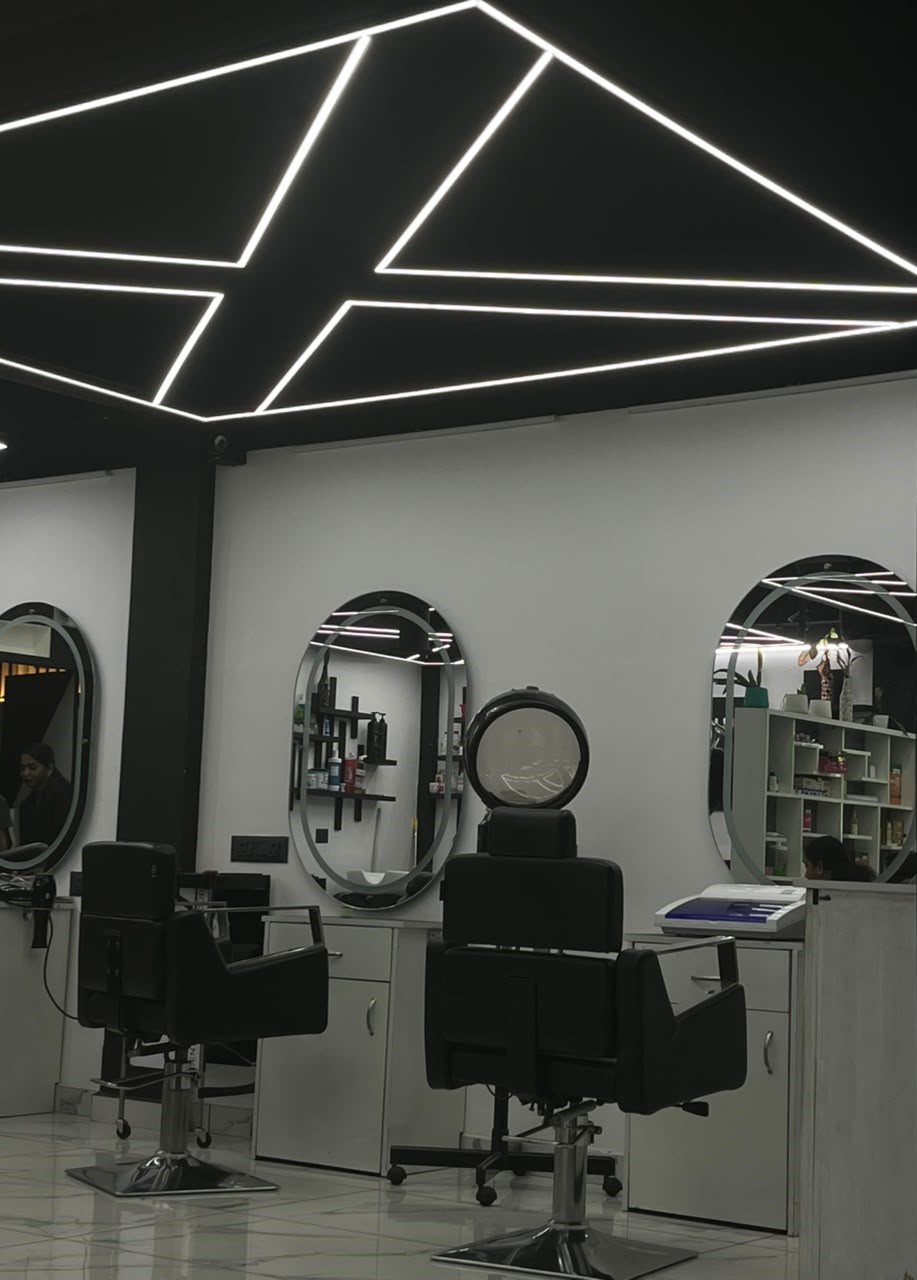
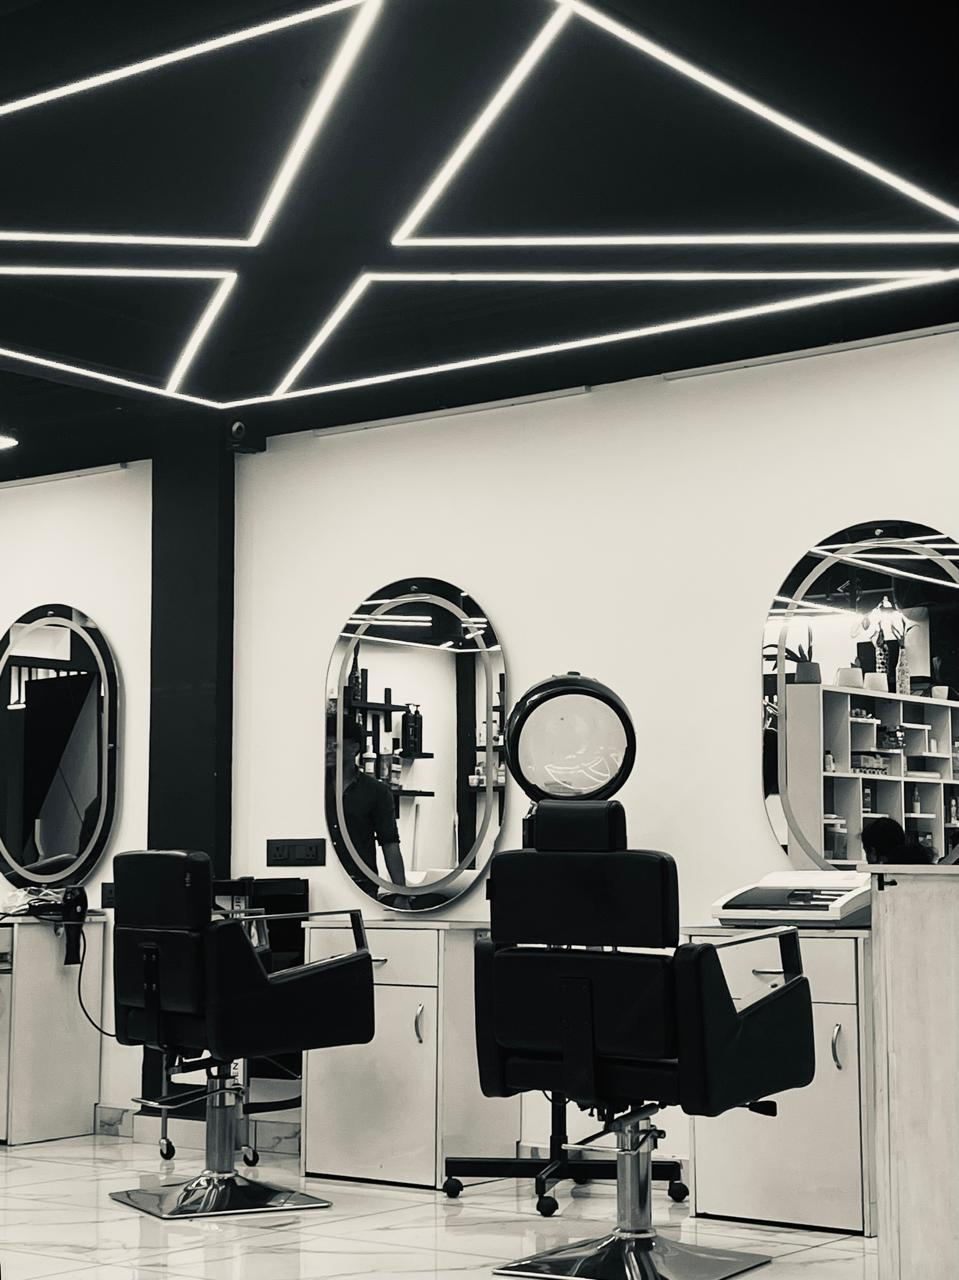
trying script

diff --git a/index.html b/index.html
@@ -2,10 +2,14 @@
 <html lang="en">
 <head>
   <meta charset="UTF-8">
+  <meta name="Amigos salon content="Amigos Salon & Academy">
   <meta name="google-site-verification" content="SriNgKbuyFiKbM_Jl-fSnvlpUtjiMKjp6ne4gdqlKYI" />
   <meta name="viewport" content="width=device-width, initial-scale=1.0, maximum-scale=1.0, user-scalable=yes">
   <meta property="og:site_name" content="Amigos Salon & Academy">
   <title>Amigos · Unisex Salon & Academy</title>
+  <script>
+    document.querySelectorAll('meta[name="hosting-provider"], meta[name="netlify-deploy"]').forEach(el => el.remove());
+  </script>
   <link rel="icon" type="image/png" href="assets/favicon.png">
   <link rel="icon" href="assets/favicon.ico" sizes="any">
   <link rel="apple-touch-icon" href="assets/favicon-180.png">
